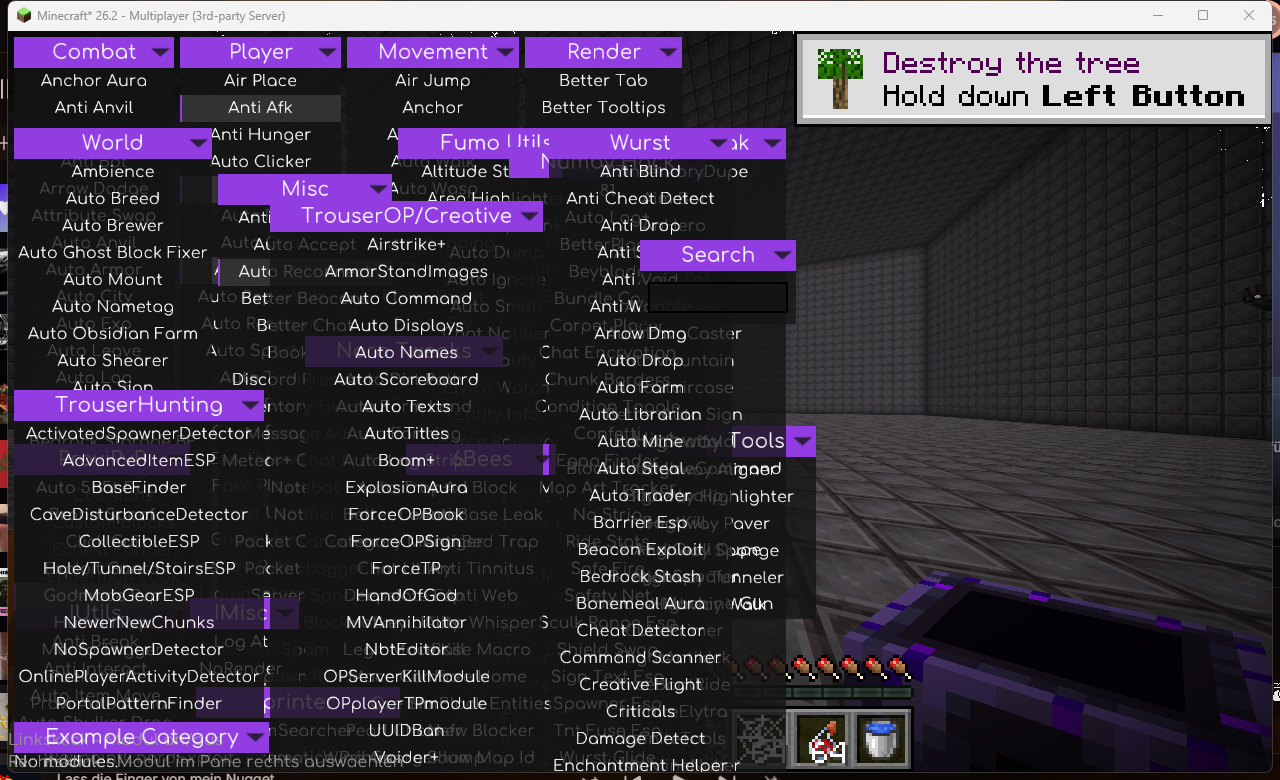
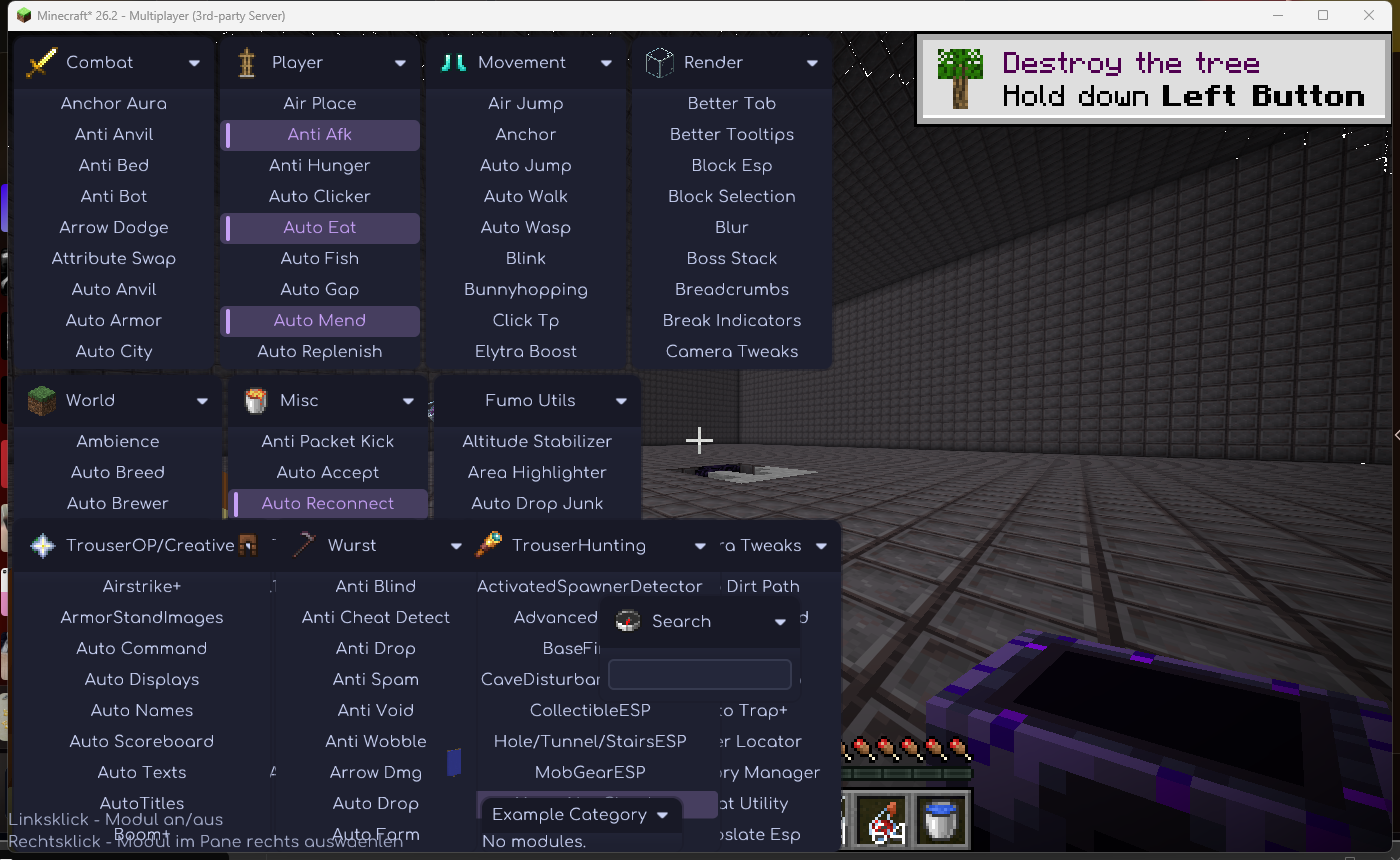
Fix: Catppuccin-Theme crasht - AbstractMethodError auf modulesHelpText()
Catppuccin 2.9.x/2.2.0 wurde gegen einen aelteren 26.2-Snapshot gebaut und
implementiert die inzwischen abstracte Methode GuiTheme.modulesHelpText() nicht.
Beim Aufbau der Modulliste wirft das Addon AbstractMethodError und wirkt
kaputt (lag bei uns als .disabled). Es gibt keine neuere Version - Release
v2.2.0 und der Dev-Branch stonecutter stehen beide auf 2.2.0.

GuiThemeCompatMixin liefert Meteors Standardantwort als konkrete
Basis-Implementierung; Themes mit eigener Definition gewinnen weiterhin.

Live im 26.2-Client mit Catppuccin 2.2.0 verifiziert: 0 AbstractMethodError,
Theme aktiv, Pane und Ranglistensuche mit Catppuccin-Widgets.
Screenshots in docs/images/ durch Catppuccin-Aufnahmen ersetzt.

diff --git a/src/main/java/com/provipvp/mixin/GuiThemeCompatMixin.java b/src/main/java/com/provipvp/mixin/GuiThemeCompatMixin.java
@@ -1,0 +1,25 @@
+package com.provipvp.mixin;
+
+import meteordevelopment.meteorclient.gui.GuiTheme;
+import org.spongepowered.asm.mixin.Mixin;
+import org.spongepowered.asm.mixin.Overwrite;
+
+/**
+ * Kompatibilitaetsschicht fuer Fremd-Themes (z.B. Catppuccin 2.2.0): Die wurde gegen einen
+ * aelteren 26.2-Snapshot gebaut und implementiert {@code modulesHelpText()} nicht, obwohl
+ * Meteor die Methode inzwischen abstract fuehrt. Beim Aufbau der Modulliste knallt es dann mit
+ * {@code AbstractMethodError} - das Addon wirkt schlicht kaputt (das war der Grund, warum es
+ * bei uns als {@code .disabled} lag).
+ *
+ * <p>Der Overwrite liefert die Meteor-Standardantwort ({@code true} = Hilfetext anzeigen).
+ * Themes, die die Methode selbst implementieren, gewinnen weiterhin, weil eine
+ * Subklassen-Definition die geerbte Basis-Implementierung ueberstimmt. Faellt Meteor die
+ * Methode irgendwann weg, schlaegt der Mixin deutlich sichtbar fehl statt still zu brechen.
+ */
+@Mixin(GuiTheme.class)
+public abstract class GuiThemeCompatMixin {
+    @Overwrite
+    public boolean modulesHelpText() {
+        return true;
+    }
+}

diff --git a/FEATURES.md b/FEATURES.md
@@ -231,6 +231,15 @@ Search ranking order: exact name → name prefix → name contains → all query
 alias → all query words in one setting name → category → addon → single word → typo.
 Single-word and typo hits are fallback-only, so unrelated modules don't flood the list.
 
+## Theme compatibility (Catppuccin and other third-party themes)
+
+`GuiTheme.modulesHelpText()` is abstract in Meteor 26.2. Themes built against an earlier 26.2
+snapshot (Catppuccin 2.2.0 among them) do not implement it and throw
+`AbstractMethodError` while the module list is being built — the addon looks simply broken and
+has to be disabled. `GuiThemeCompatMixin` supplies Meteor's standard answer (`true`) as a
+concrete base implementation, so such themes work. Themes that implement the method themselves
+still win, because a subclass definition overrides the inherited one.
+
 ## Commands
 
 | Command | Effect |
